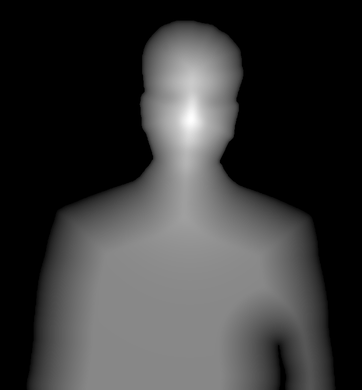
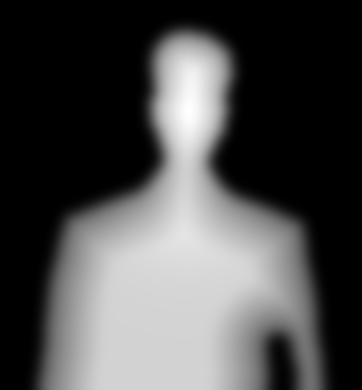
Keep the hero face undistorted
Drop the hover ripple and RGB split, halve the depth and turn angle, and
rebuild the depth map with soft edges so the silhouette never stretches.

diff --git a/components/three/Character3D.tsx b/components/three/Character3D.tsx
@@ -24,9 +24,6 @@ const vertex = /* glsl */ `
     p.z += d * uDepthScale;
     // Breathing: a slow swell through the chest and shoulders.
     p.z += sin(uTime * 1.4) * 0.012 * d;
-    // Liquid ripple near the pointer while hovered.
-    float dist = distance(uv, uPointer);
-    p.z += sin(dist * 26.0 - uTime * 5.0) * 0.03 * smoothstep(0.35, 0.0, dist) * uHover * d;
     gl_Position = projectionMatrix * modelViewMatrix * vec4(p, 1.0);
   }
 `;
@@ -51,14 +48,8 @@ const fragment = /* glsl */ `
     if (vUv.y > edge) discard;
     float scan = smoothstep(edge - 0.02, edge, vUv.y);
 
-    float dist = distance(vUv, uPointer);
-    float fall = smoothstep(0.3, 0.0, dist) * uHover;
-    float shift = 0.004 * uHover + fall * 0.012;
-
     vec4 base = texture2D(uTex, vUv);
-    float r = texture2D(uTex, vUv + vec2(shift, 0.0)).r;
-    float b = texture2D(uTex, vUv - vec2(shift, 0.0)).b;
-    vec3 col = vec3(r, base.g, b);
+    vec3 col = base.rgb;
     float alpha = base.a;
     if (alpha < 0.03) discard;
 
@@ -109,7 +100,7 @@ function Bust({ src, depth, state, onReady }: { src: string; depth: string; stat
     () => ({
       uTex: { value: tex },
       uDepth: { value: depthTex },
-      uDepthScale: { value: 0.55 },
+      uDepthScale: { value: 0.26 },
       uTexel: { value: new THREE.Vector2(1 / 362, 1 / 390) },
       uGold: { value: new THREE.Color("#EBB94A") },
       uLight: { value: new THREE.Vector2(-0.6, 0.5) },
@@ -151,8 +142,8 @@ function Bust({ src, depth, state, onReady }: { src: string; depth: string; stat
     u.uLight.value.x += (-s.x * 0.9 - 0.2 - u.uLight.value.x) * 0.05;
     u.uLight.value.y += (s.y * 0.6 + 0.45 - u.uLight.value.y) * 0.05;
 
-    const targetY = s.x * 0.42 + Math.sin(t * 0.35) * 0.05;
-    const targetX = -s.y * 0.14 + Math.sin(t * 0.5) * 0.015;
+    const targetY = s.x * 0.2 + Math.sin(t * 0.35) * 0.03;
+    const targetX = -s.y * 0.06 + Math.sin(t * 0.5) * 0.01;
     g.rotation.y += (targetY - g.rotation.y) * 0.06;
     g.rotation.x += (targetX - g.rotation.x) * 0.06;
     g.position.y = -viewport.height / 2 + height / 2 + Math.sin(t * 0.8) * 0.03;
